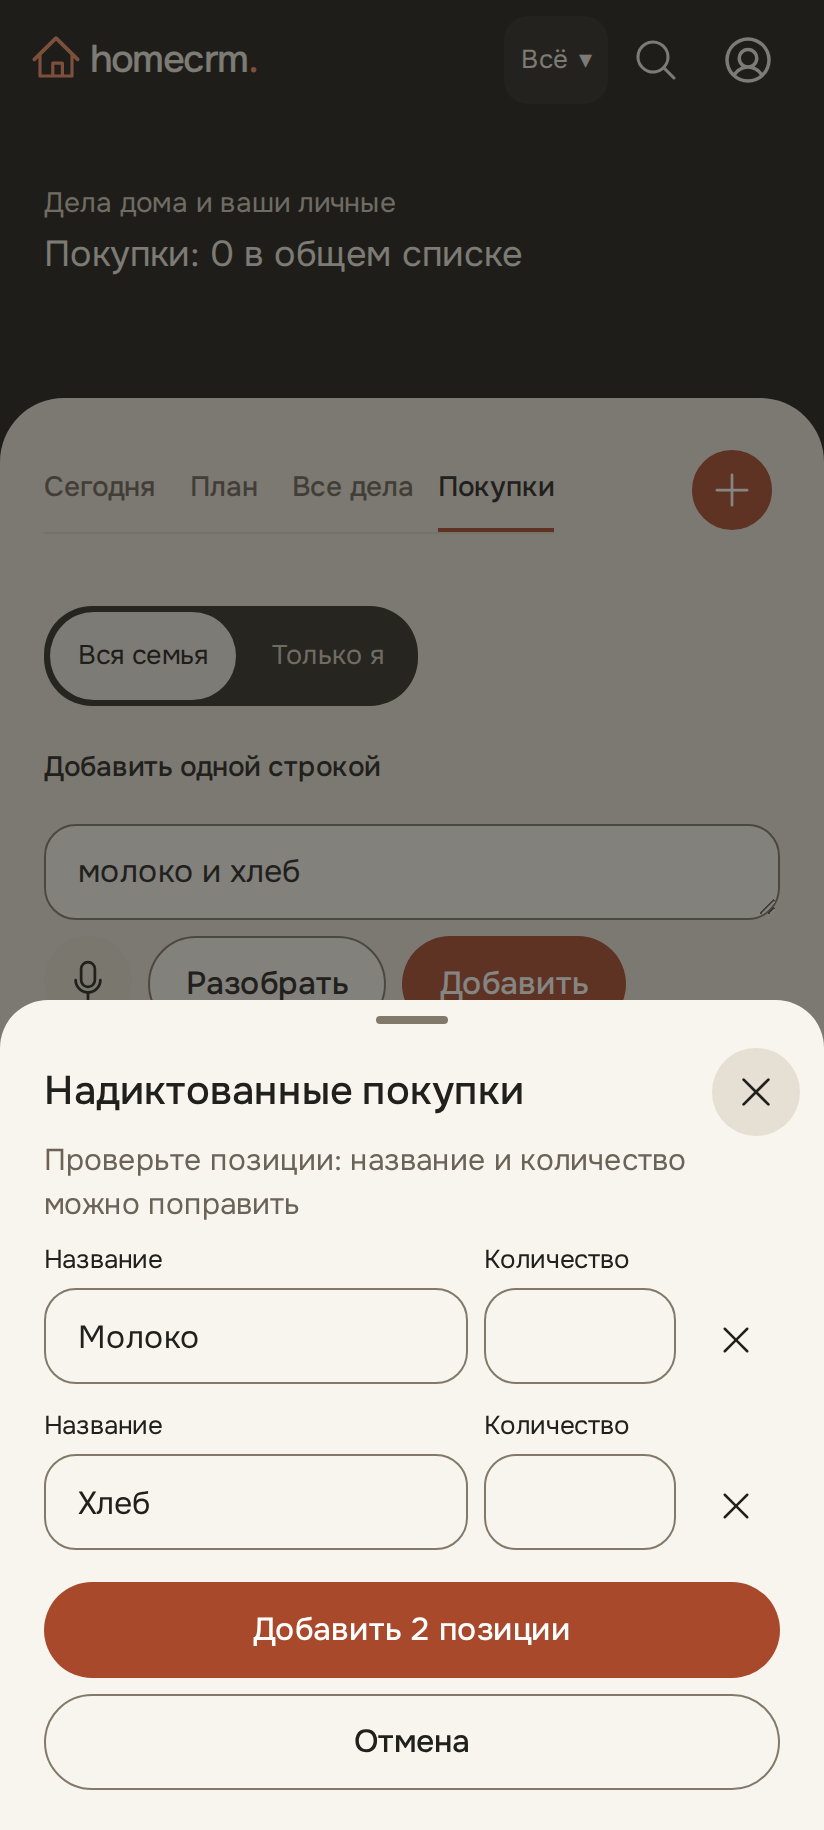
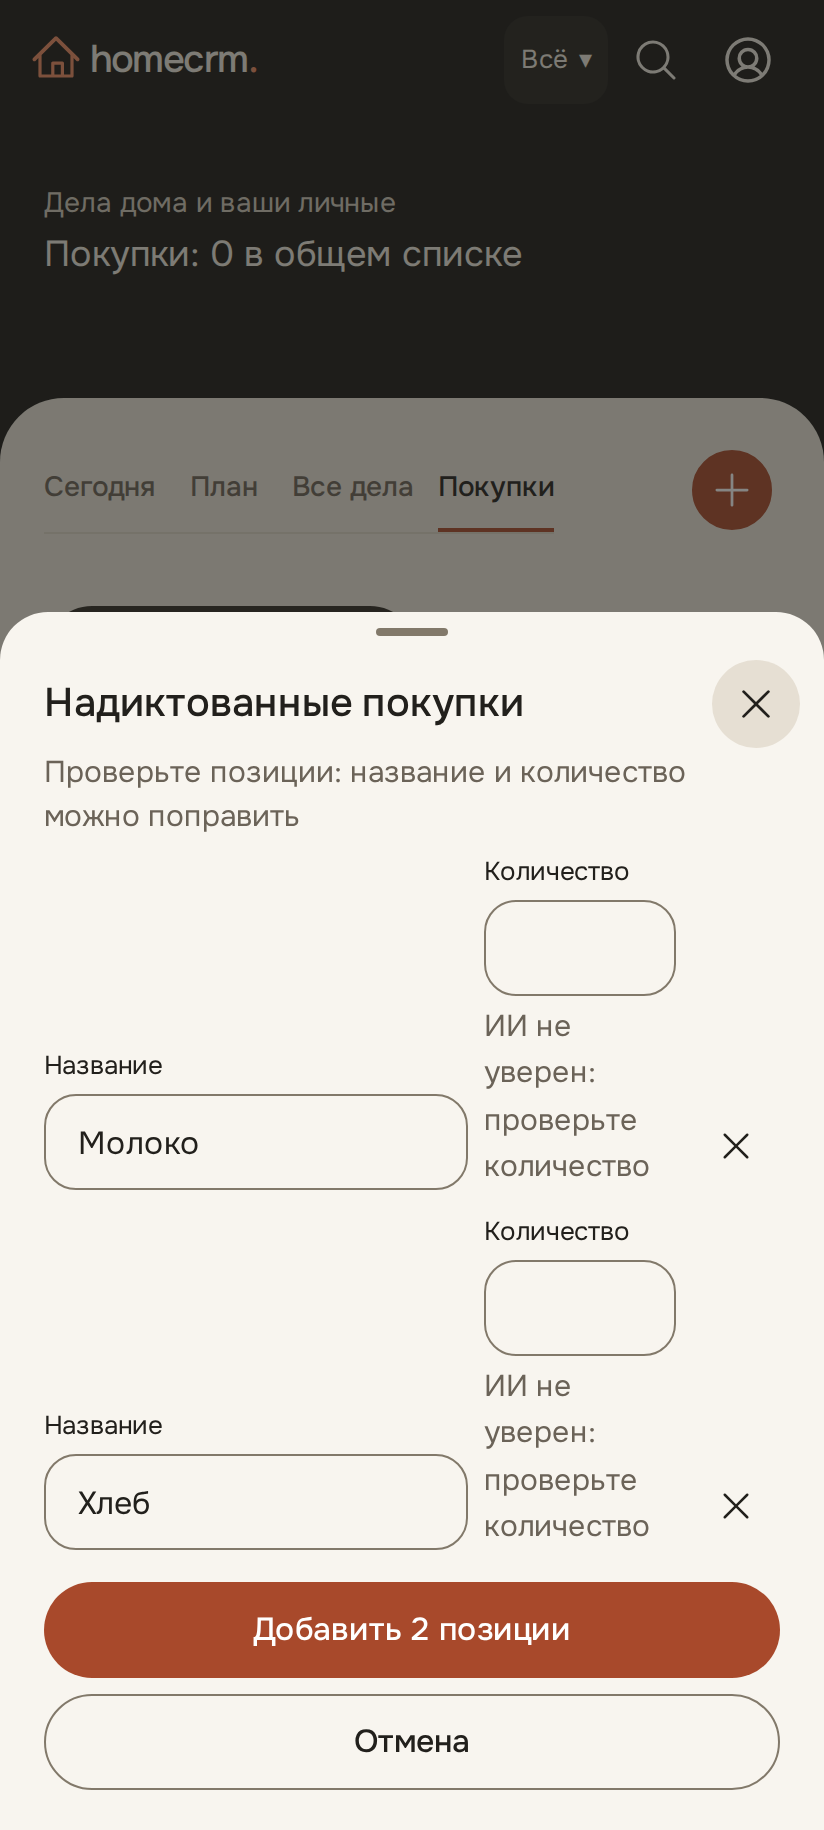
SHOP-3: сохранить отметки неуверенных полей ИИ в списке

Changed region(s): [[0.0, 0.3115, 1.0, 0.841], [0.7888, 0.6852, 0.8192, 0.7475], [0.8799, 0.7164, 0.9102, 0.7475]]

diff --git a/apps/web/src/shopping/ShoppingDrafts.tsx b/apps/web/src/shopping/ShoppingDrafts.tsx
@@ -110,9 +110,18 @@ export function ShoppingDrafts({
                   <input
                     className="input"
                     value={row.title}
+                    aria-label={`Название позиции ${index + 1}`}
+                    aria-describedby={
+                      row.titleConfident === false ? `draft-title-${row.id}` : undefined
+                    }
                     maxLength={200}
                     onChange={(event) => update(row.id, { title: event.target.value })}
                   />
+                  {row.titleConfident === false ? (
+                    <small className="muted" id={`draft-title-${row.id}`}>
+                      ИИ не уверен: проверьте название
+                    </small>
+                  ) : null}
                 </label>
                 <label>
                   <span>
@@ -121,9 +130,18 @@ export function ShoppingDrafts({
                   <input
                     className="input"
                     value={row.quantity ?? ''}
+                    aria-label={`Количество позиции ${index + 1}`}
+                    aria-describedby={
+                      row.quantityConfident === false ? `draft-quantity-${row.id}` : undefined
+                    }
                     maxLength={200}
                     onChange={(event) => update(row.id, { quantity: event.target.value })}
                   />
+                  {row.quantityConfident === false ? (
+                    <small className="muted" id={`draft-quantity-${row.id}`}>
+                      ИИ не уверен: проверьте количество
+                    </small>
+                  ) : null}
                 </label>
                 <button
                   type="button"

diff --git a/apps/web/src/voice/shopping-dictation.ts b/apps/web/src/voice/shopping-dictation.ts
@@ -2,7 +2,7 @@
 // - позиции делятся запятыми, точкой с запятой, точками и словами «и», «ещё», «а также», «потом»,
 //   «плюс», стоящими отдельным словом; поэтому «хлеб и соль» — две позиции, а «хлеб-соль» — одна;
 // - запятая или точка между цифрами — дробь («1,5 кг»), а не разделитель;
-// - количество берётся только в начале позиции: число цифрами или словом, «пару», «десяток»,
+// - количество берётся в начале или после названия: число цифрами или словом, «пару», «десяток»,
 //   «два десятка», затем необязательная единица («кг», «литр», «пачки», «батон»…);
 // - название из одного слова ставится в именительный падеж: без количества — винительный
 //   («сметану» → «сметана»), после количества — родительный («кг гречки» → «гречка»);
@@ -10,7 +10,12 @@
 //   слово остаётся как сказано. В названии из нескольких слов словарь правит только первое.
 import { plural } from '../ui/format.ts';
 
-export type ShoppingDraft = { title: string; quantity?: string };
+export type ShoppingDraft = {
+  title: string;
+  quantity?: string;
+  titleConfident?: boolean;
+  quantityConfident?: boolean;
+};
 
 const TITLE_LIMIT = 200;
 

diff --git a/apps/web/src/shopping/batch.ts b/apps/web/src/shopping/batch.ts
@@ -9,7 +9,12 @@ import { listedNames, shoppingName } from './duplicates.ts';
 export function shoppingBatch(drafts: ShoppingDraft[], place: Visibility, house: string | null) {
   const placement = newPlacement(place, house);
   const rows = drafts.map((draft) => ({
-    body: { ...draft, ...(placement ? { placement } : {}), idempotencyKey: uuid() },
+    body: {
+      title: draft.title,
+      quantity: draft.quantity,
+      ...(placement ? { placement } : {}),
+      idempotencyKey: uuid(),
+    },
     card: null as ShoppingCard | null,
     skipped: false,
     attempted: false,

diff --git a/apps/web/src/shopping/ShoppingAiCapture.tsx b/apps/web/src/shopping/ShoppingAiCapture.tsx
@@ -38,6 +38,8 @@ export function ShoppingAiCapture({
       onDrafts(
         result.map((draft) => ({
           title: draft.title.value,
+          titleConfident: draft.title.confident,
+          quantityConfident: draft.quantity.confident,
           ...(draft.quantity.value ? { quantity: draft.quantity.value } : {}),
         })),
       );
